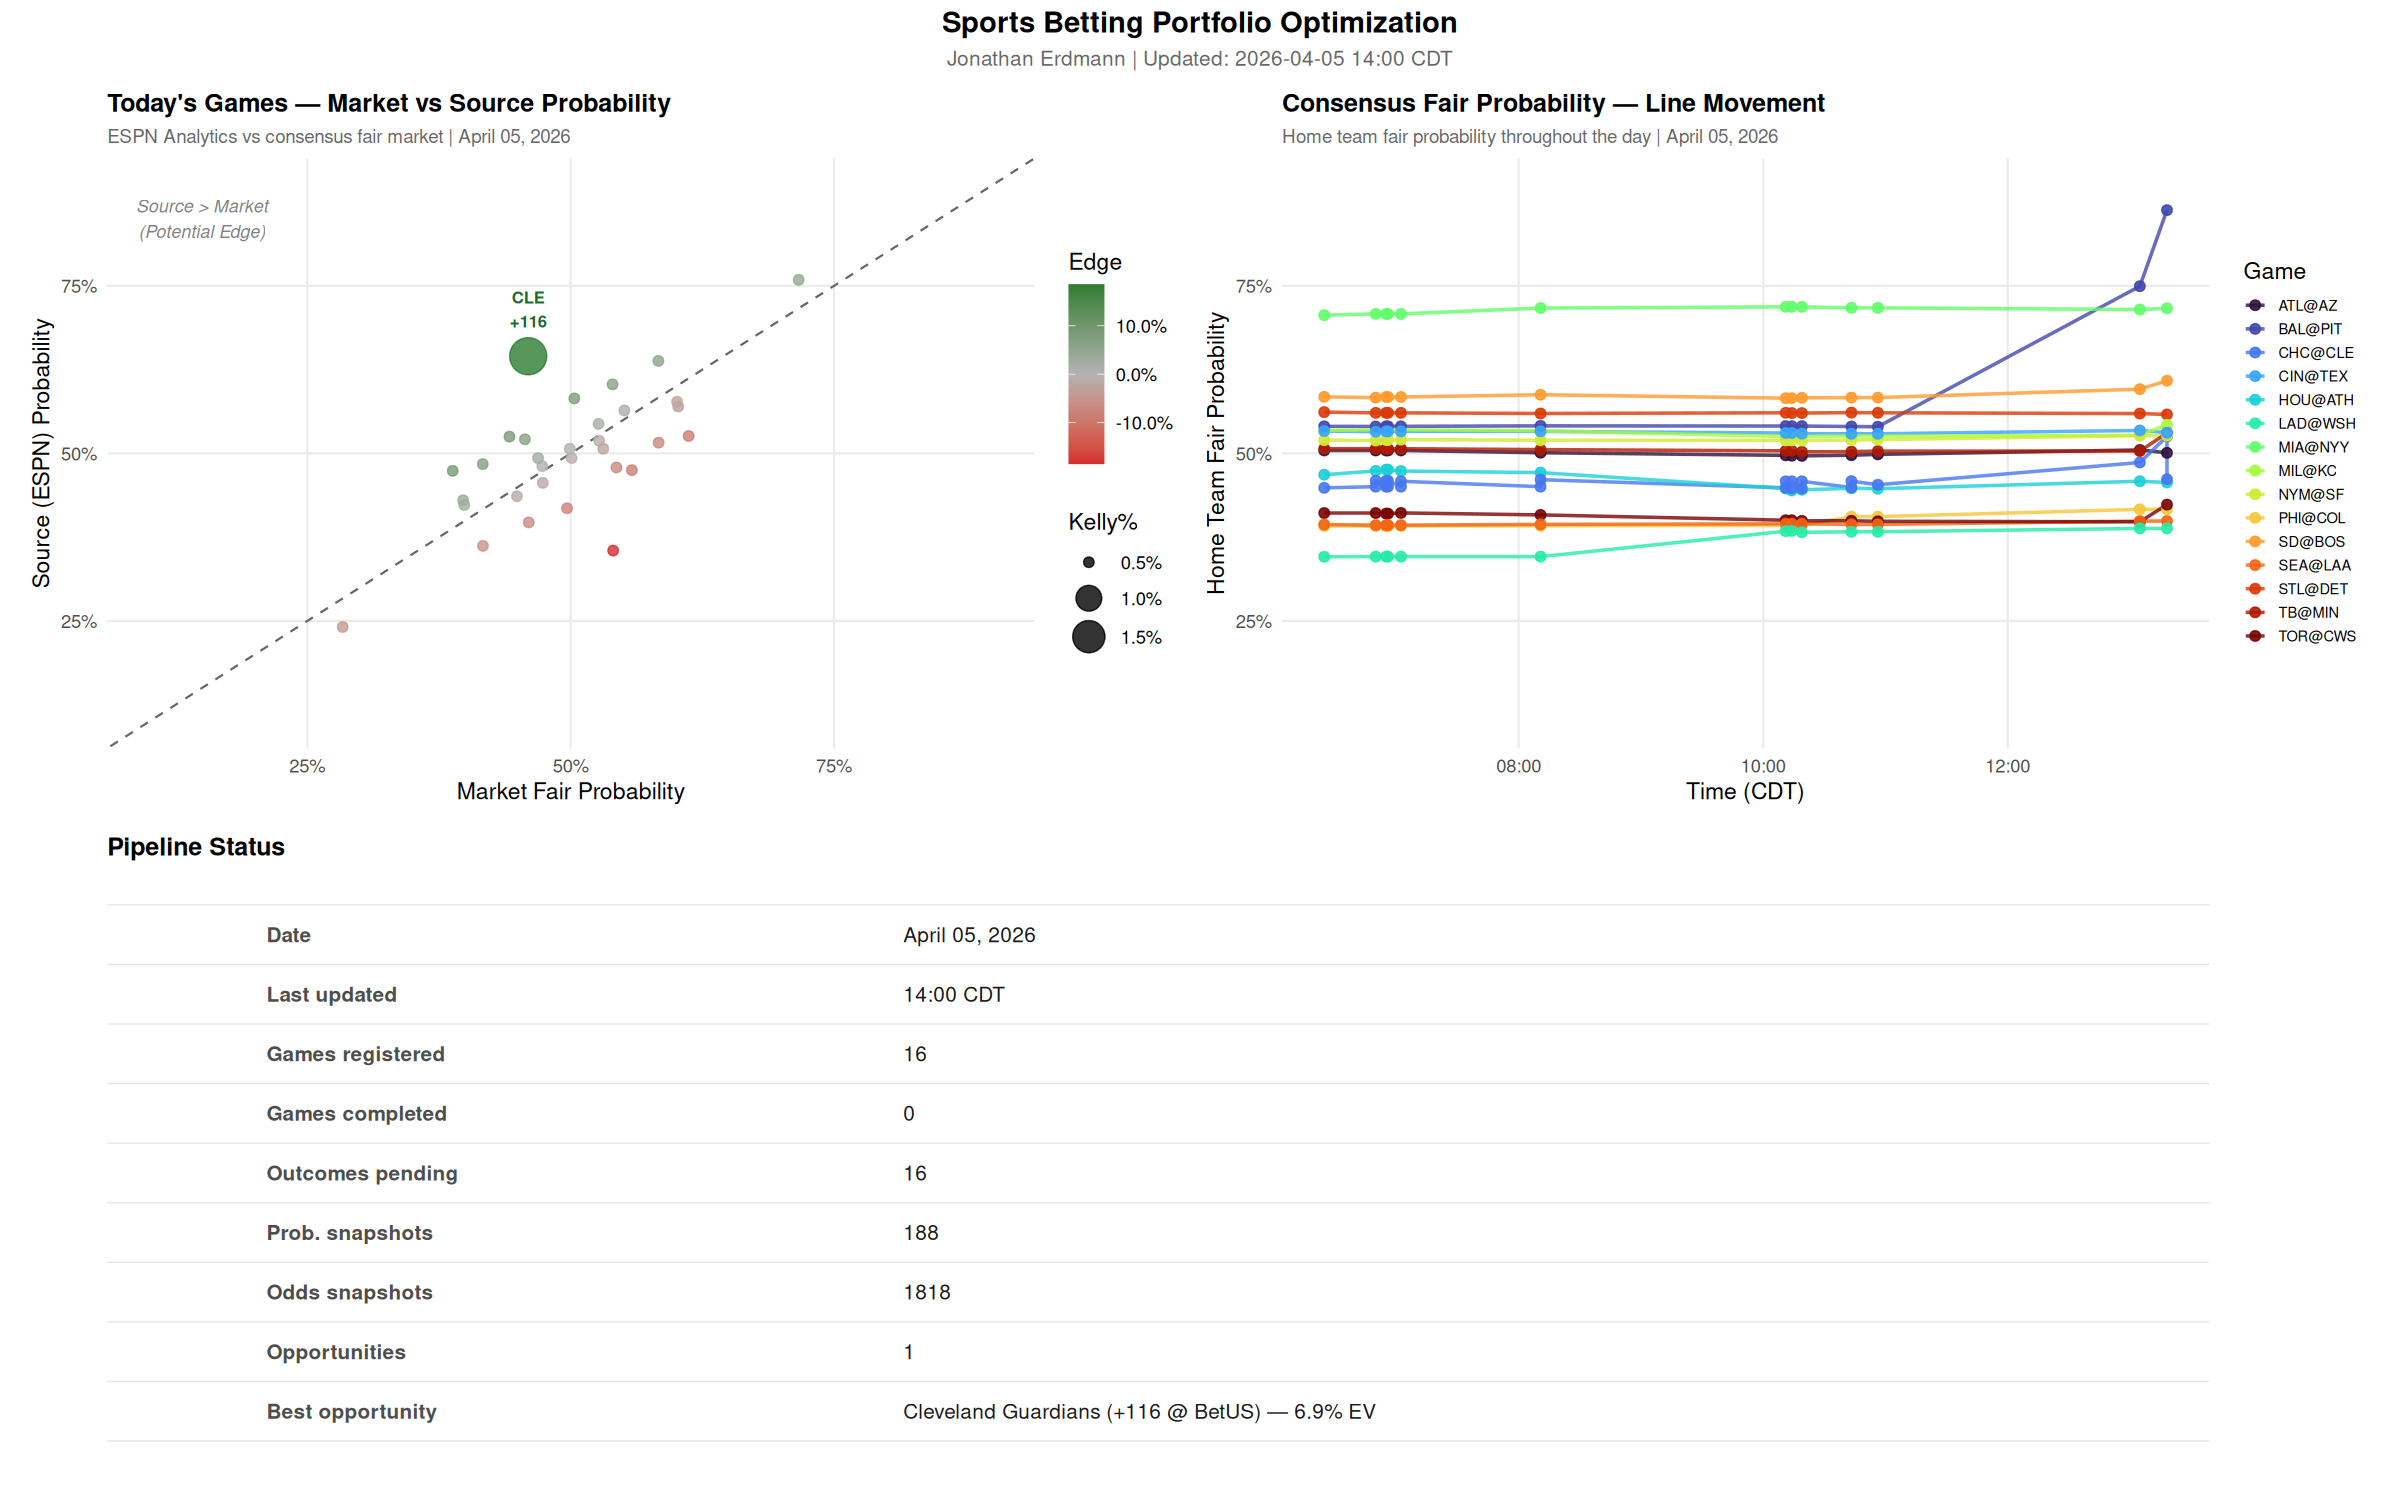
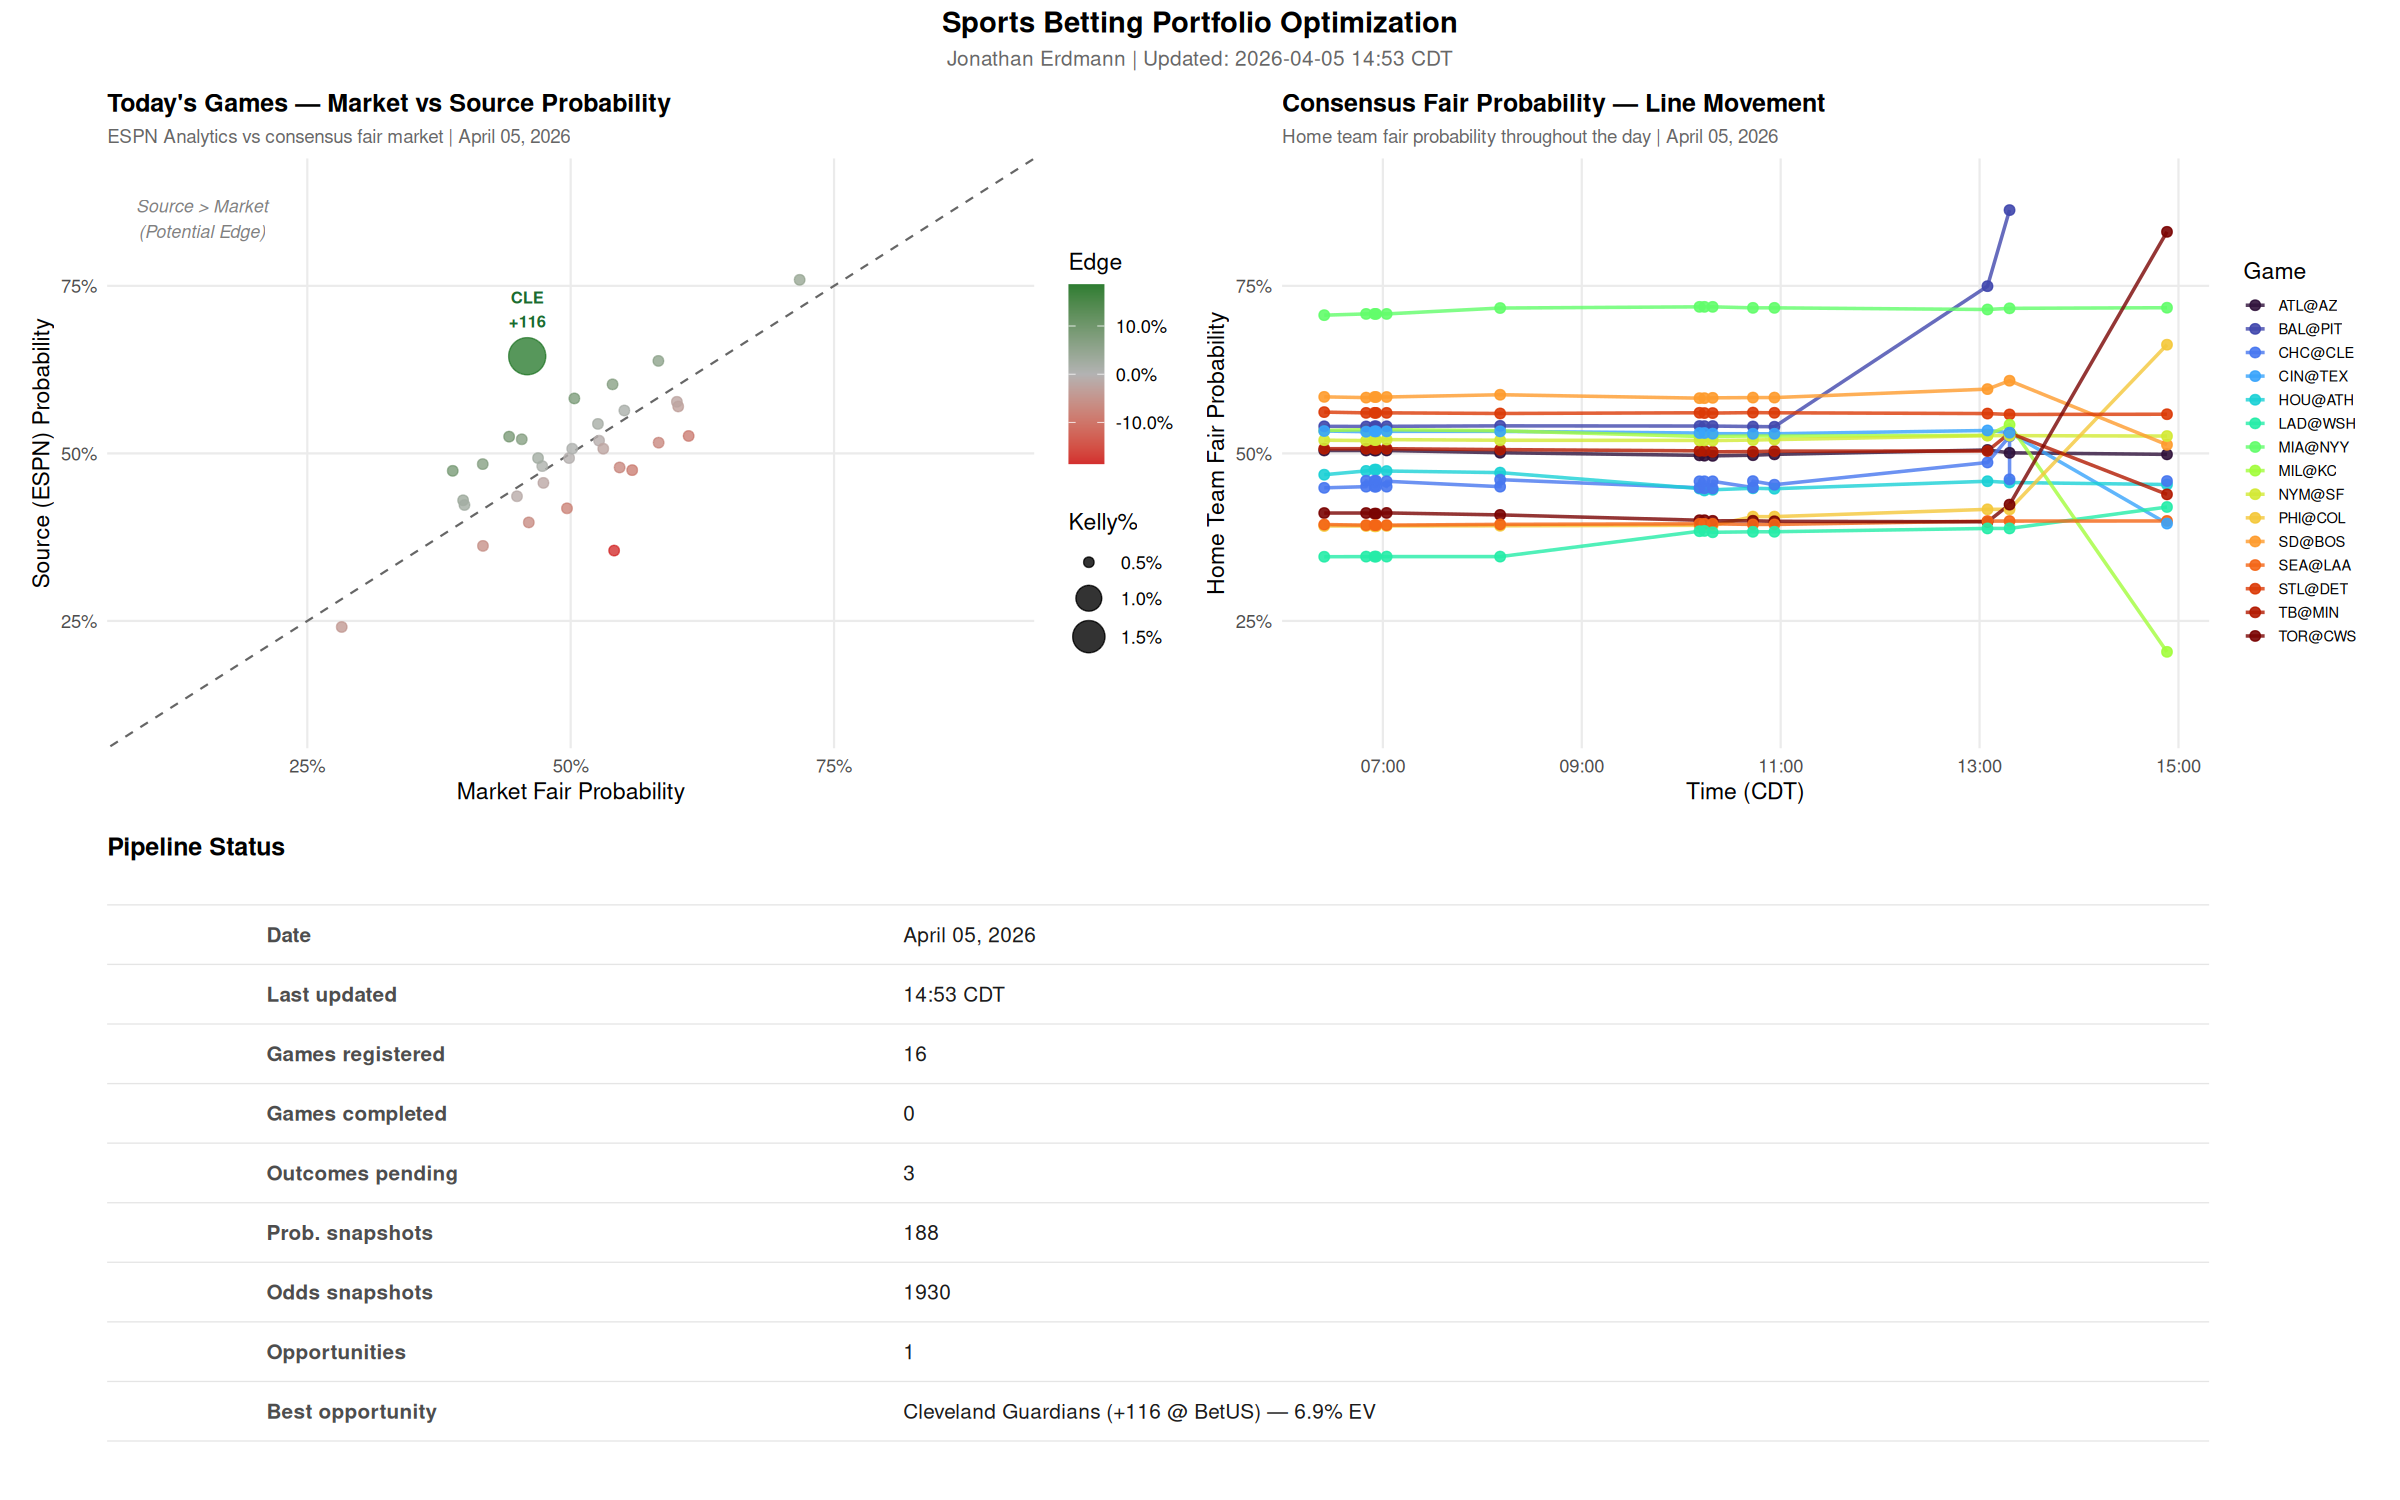
Update dashboard: 2026-04-05 14:53

diff --git a/projects/portfolio-optimization/dashboard.md b/projects/portfolio-optimization/dashboard.md
@@ -6,15 +6,15 @@ permalink: /projects/portfolio-optimization/dashboard/
 
 ## Daily Pipeline Dashboard
 
-**Last updated:** April 05, 2026 14:00 CDT
+**Last updated:** April 05, 2026 14:53 CDT
 
 ---
 
 ### Today's +EV Opportunities
 
-| Team | ML | Market% | Posterior% | EV% | Kelly% | Book |
-|---|---|---|---|---|---|---|
-| Cleveland Guardians | +116 | 45.8% | 49.5% | 6.9% | 1.49% | BetUS |
+| Team | ML | Market% | Posterior% | EV% | Kelly% | Bet by | Book |
+|---|---|---|---|---|---|---|---|
+| Cleveland Guardians | +116 | 45.8% | 49.5% | 6.9% | 1.49% | 10:45 CDT | BetUS |
 
 ---
 
